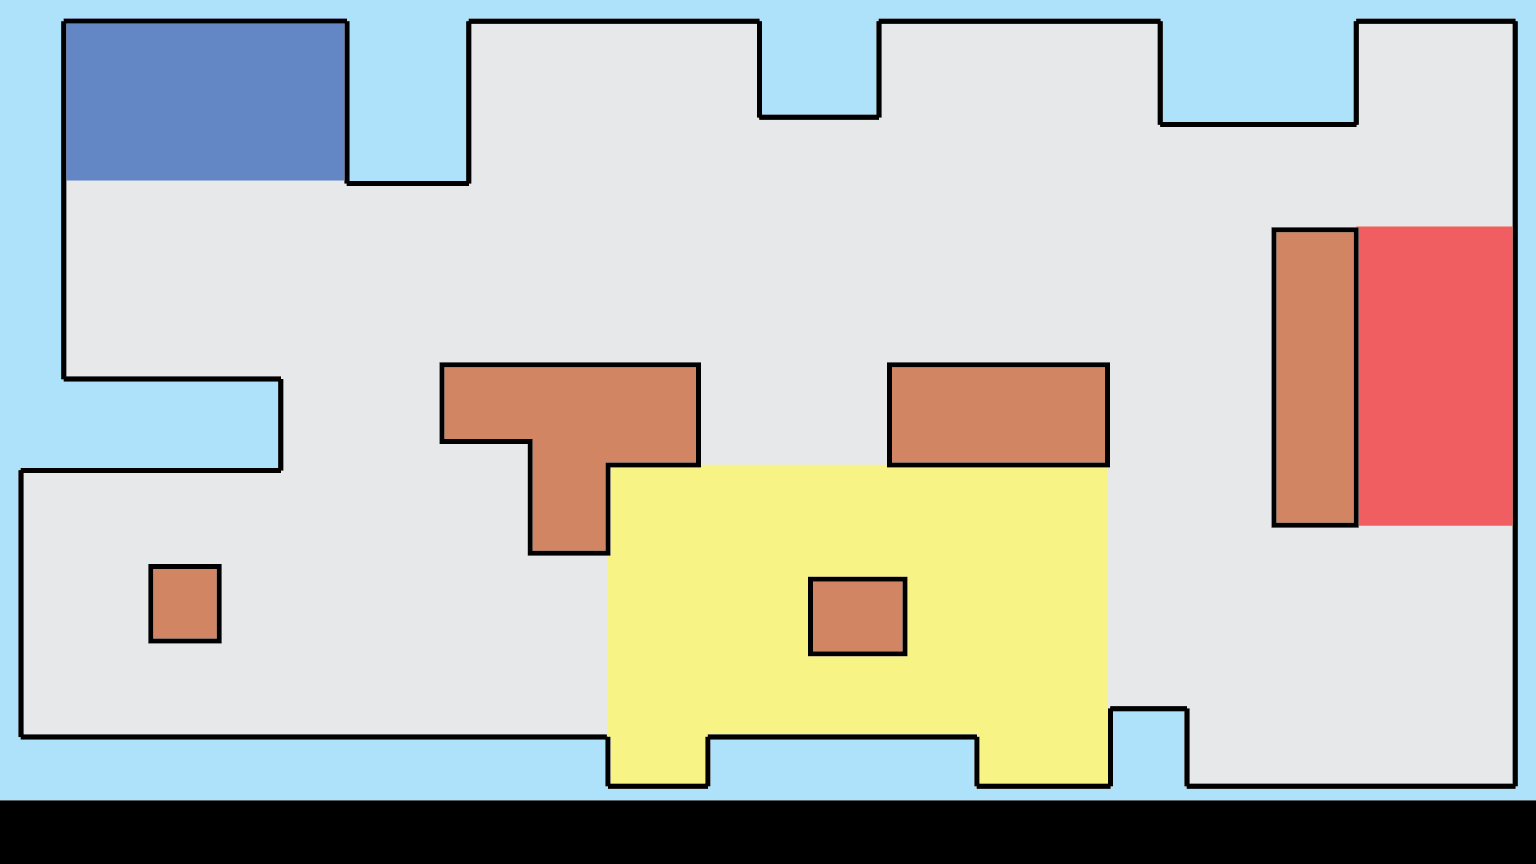
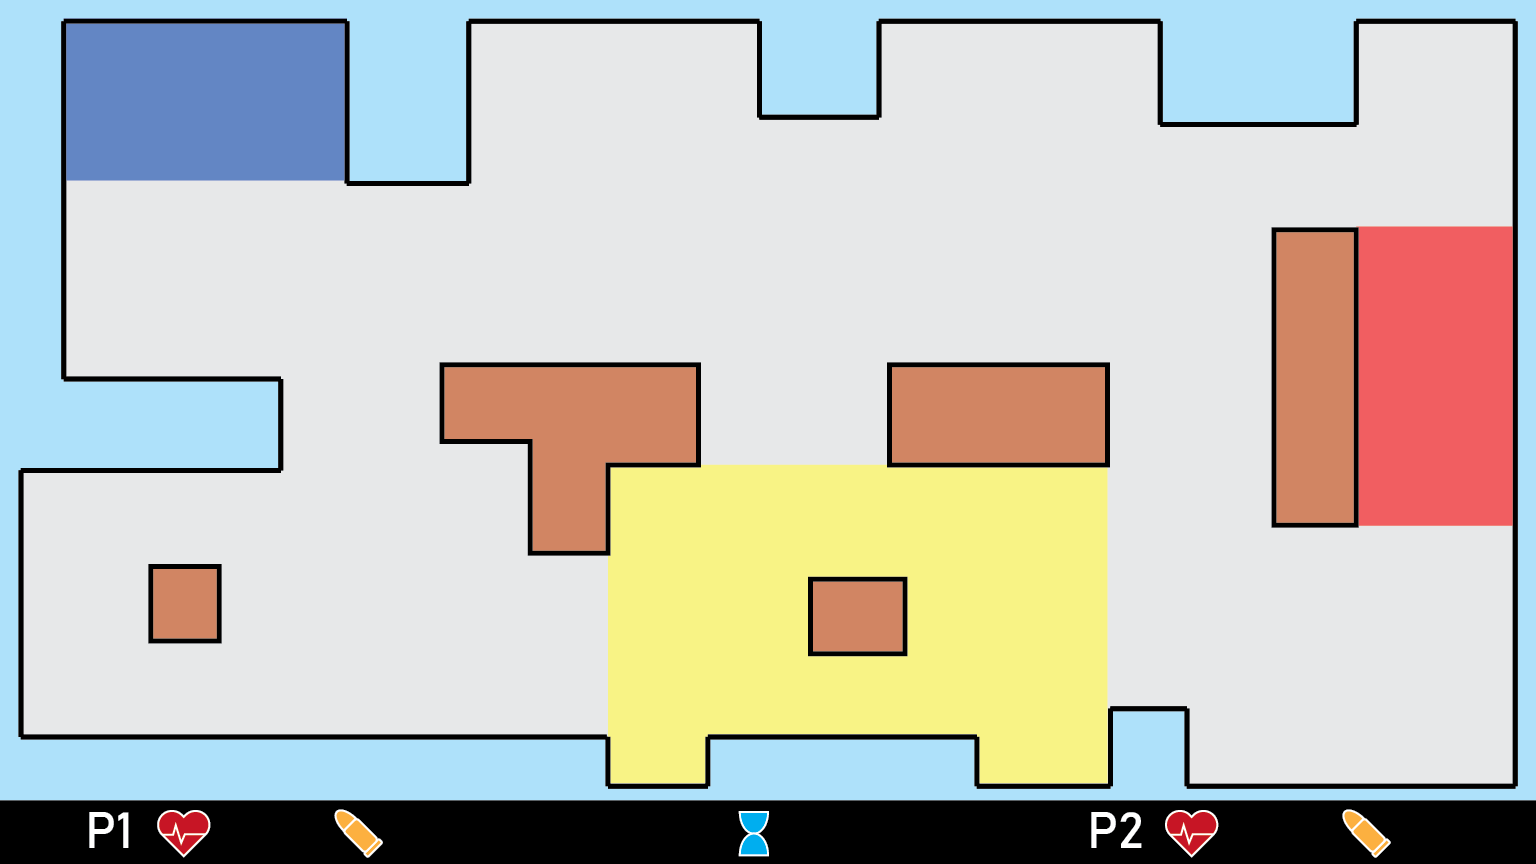
fully implement HUD, add visuals

diff --git a/hud.py b/hud.py
@@ -18,7 +18,7 @@ class display_model:
 
     def __init__(self):
         self._font = pygame.font.SysFont(
-            'bahnschrift', 30)  # looks like Valorant HUD font
+            'bahnschrift', 50)  # looks like Valorant HUD font
         self.timer = 100  # start at 100 seconds
 
     def get_game_updates():
@@ -52,19 +52,28 @@ class display_view:
         text_surface = self.model._font.render(text, 1, color)
         surface.blit(text_surface, position)
 
-    def draw_player_updates(self, player, surface):
+    def draw_player_updates(self, player_1, player_2, surface):
         """
         pull health/ammo updates from a specified player and draw it to the HUD.
 
         Arguments:
-            player: An Agent to pull updates from.
+            player_1: An Agent to pull updates from.
+            player_2: An Agent to pull updates from.
             surface: The surface to blit the text on to.
         """
-        # pull & draw health update
-        health = player.health
-        self.draw_text(str(health), (255, 255, 255), surface, (192, 815))
+        # pull & draw player 1 health update
+        health_1 = player_1.health
+        self.draw_text(str(health_1), (255, 255, 255), surface, (230, 800))
+        # pull & draw player 1 ammo update
+        # pull ammo here
+        self.draw_text("0", (255, 255, 255), surface, (400, 800))
 
-        # pull & draw ammo update
+        # pull & draw player 2 health update
+        health_2 = player_2.health
+        self.draw_text(str(health_2), (255, 255, 255), surface, (1238, 800))
+        # pull & draw player 2 ammo update
+        # pull ammo here
+        self.draw_text("0", (255, 255, 255), surface, (1412, 800))
 
     def draw_game_timer(self, surface):
         """
@@ -74,4 +83,4 @@ class display_view:
             surface: The surface to blit the text on to.
         """
         self.draw_text(str(self.model.timer),
-                       (255, 255, 255), surface, (800, 815))
+                       (255, 255, 255), surface, (800, 800))

diff --git a/agent.py b/agent.py
@@ -551,7 +551,8 @@ def agent_test():
         # map_view.draw_walls()
 
         # draw HUD updates
-        hud_view.draw_player_updates(character_model_1, map_view._window)
+        hud_view.draw_player_updates(
+            character_model_1, character_model_2, map_view._window)
         hud_view.draw_game_timer(map_view._window)
 
         # draw characters
